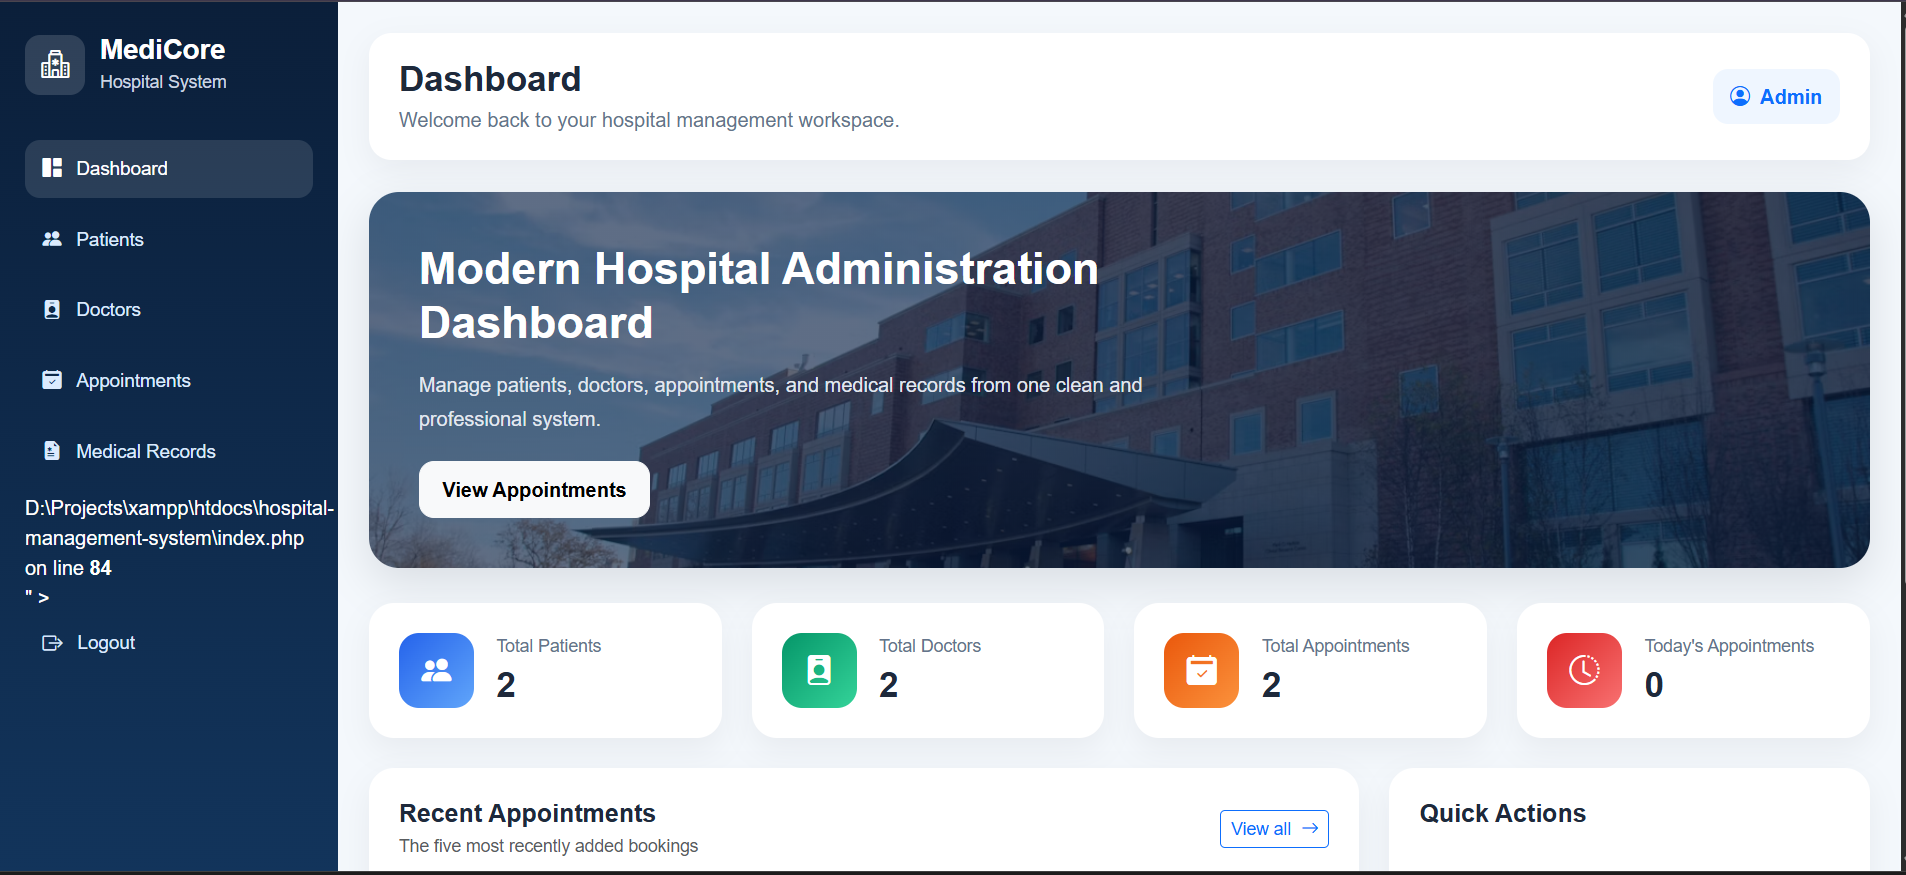
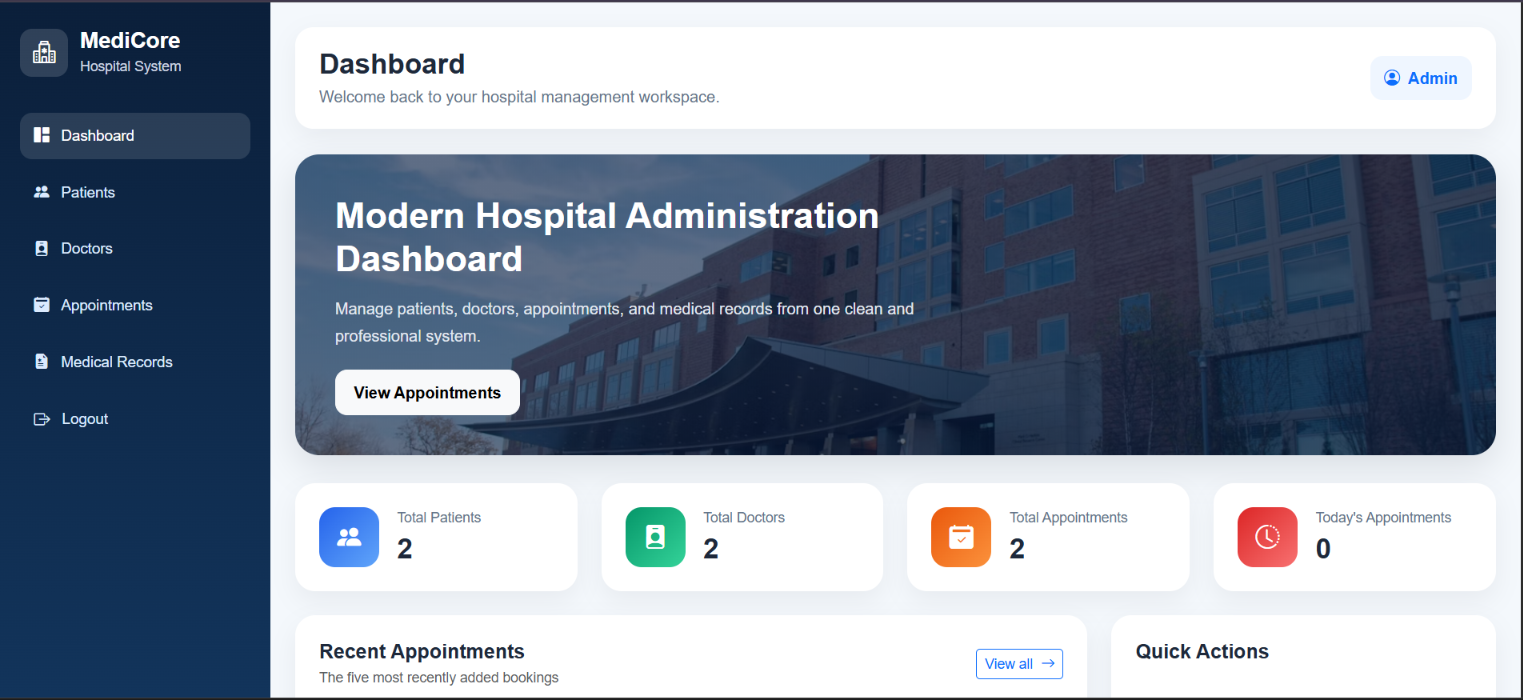
Update MediCore dashboard

diff --git a/auth_guard.php b/auth_guard.php
@@ -1,3 +1,4 @@
+
 <?php
 /**
  * MediCore central authentication guard (PHP 8.2+, educational demo).
@@ -26,7 +27,11 @@ header('X-Content-Type-Options: nosniff');
 header('X-Frame-Options: DENY');
 header('Referrer-Policy: no-referrer');
 
-if (!isset($_SESSION['user_id']) || !is_int($_SESSION['user_id']) || $_SESSION['user_id'] < 1) {
+if (
+    !isset($_SESSION['user_id']) ||
+    !is_int($_SESSION['user_id']) ||
+    $_SESSION['user_id'] < 1
+) {
     header('Location: login.php');
     exit;
 }
@@ -34,10 +39,16 @@ if (!isset($_SESSION['user_id']) || !is_int($_SESSION['user_id']) || $_SESSION['
 // End sessions after 30 minutes without activity on protected pages.
 $medicoreNow = time();
 $medicoreLastActivity = $_SESSION['medicore_last_activity'] ?? null;
-if (is_int($medicoreLastActivity) && $medicoreNow - $medicoreLastActivity > 1800) {
+
+if (
+    is_int($medicoreLastActivity) &&
+    $medicoreNow - $medicoreLastActivity > 1800
+) {
     $_SESSION = [];
+
     if (ini_get('session.use_cookies')) {
         $cookie = session_get_cookie_params();
+
         setcookie(session_name(), '', [
             'expires' => time() - 3600,
             'path' => $cookie['path'],
@@ -47,8 +58,16 @@ if (is_int($medicoreLastActivity) && $medicoreNow - $medicoreLastActivity > 1800
             'samesite' => $cookie['samesite'] ?? 'Lax',
         ]);
     }
+
     session_destroy();
     header('Location: login.php?expired=1');
     exit;
 }
+
 $_SESSION['medicore_last_activity'] = $medicoreNow;
+
+// Create a CSRF token for the secure logout form.
+// This prevents the "Undefined array key: logout_token" warning.
+if (empty($_SESSION['logout_token'])) {
+    $_SESSION['logout_token'] = bin2hex(random_bytes(32));
+}
